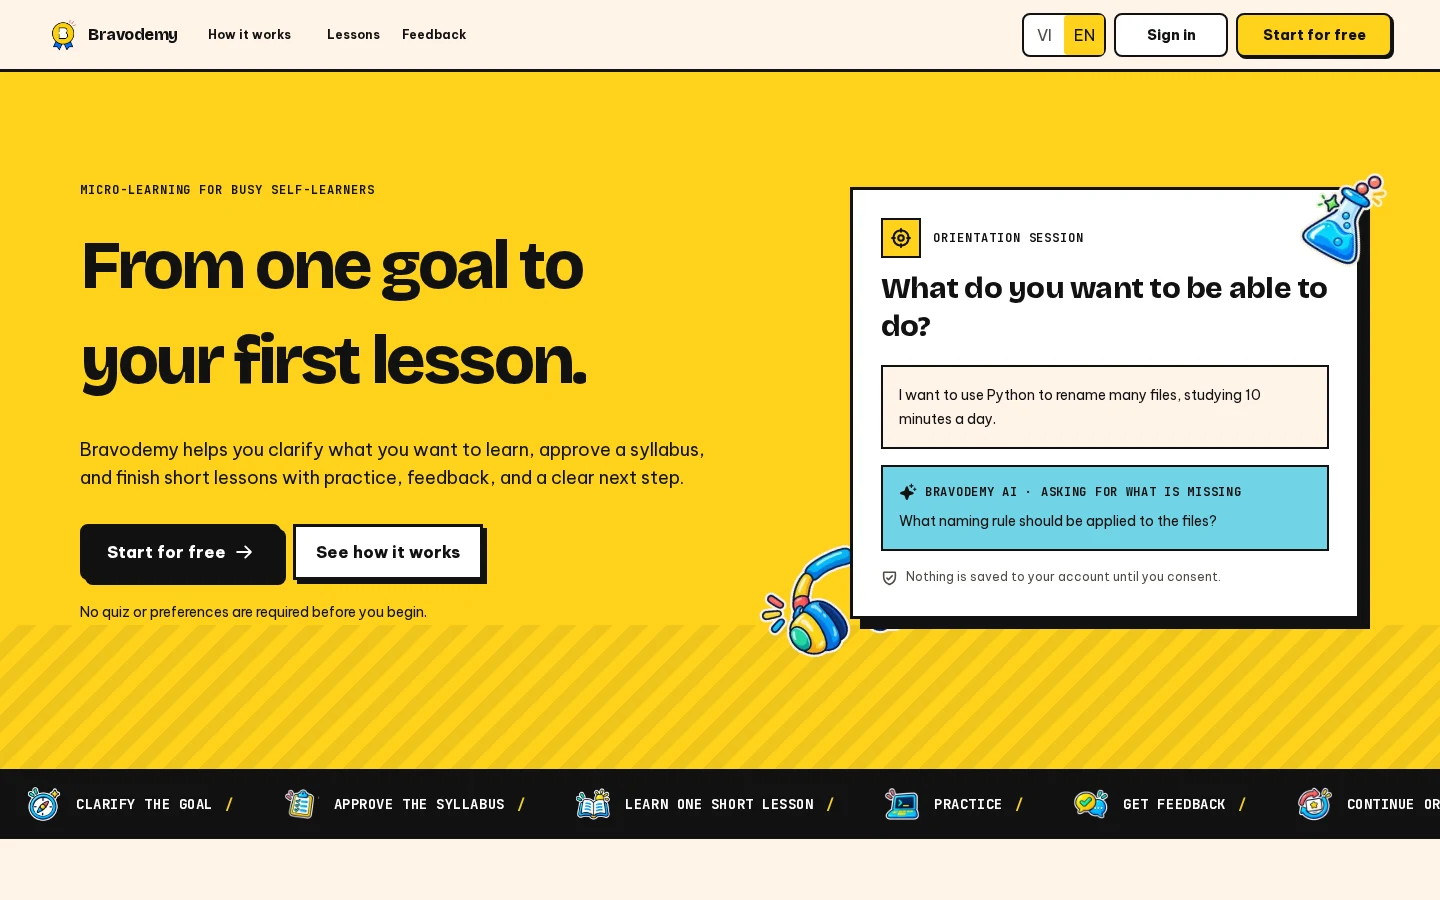
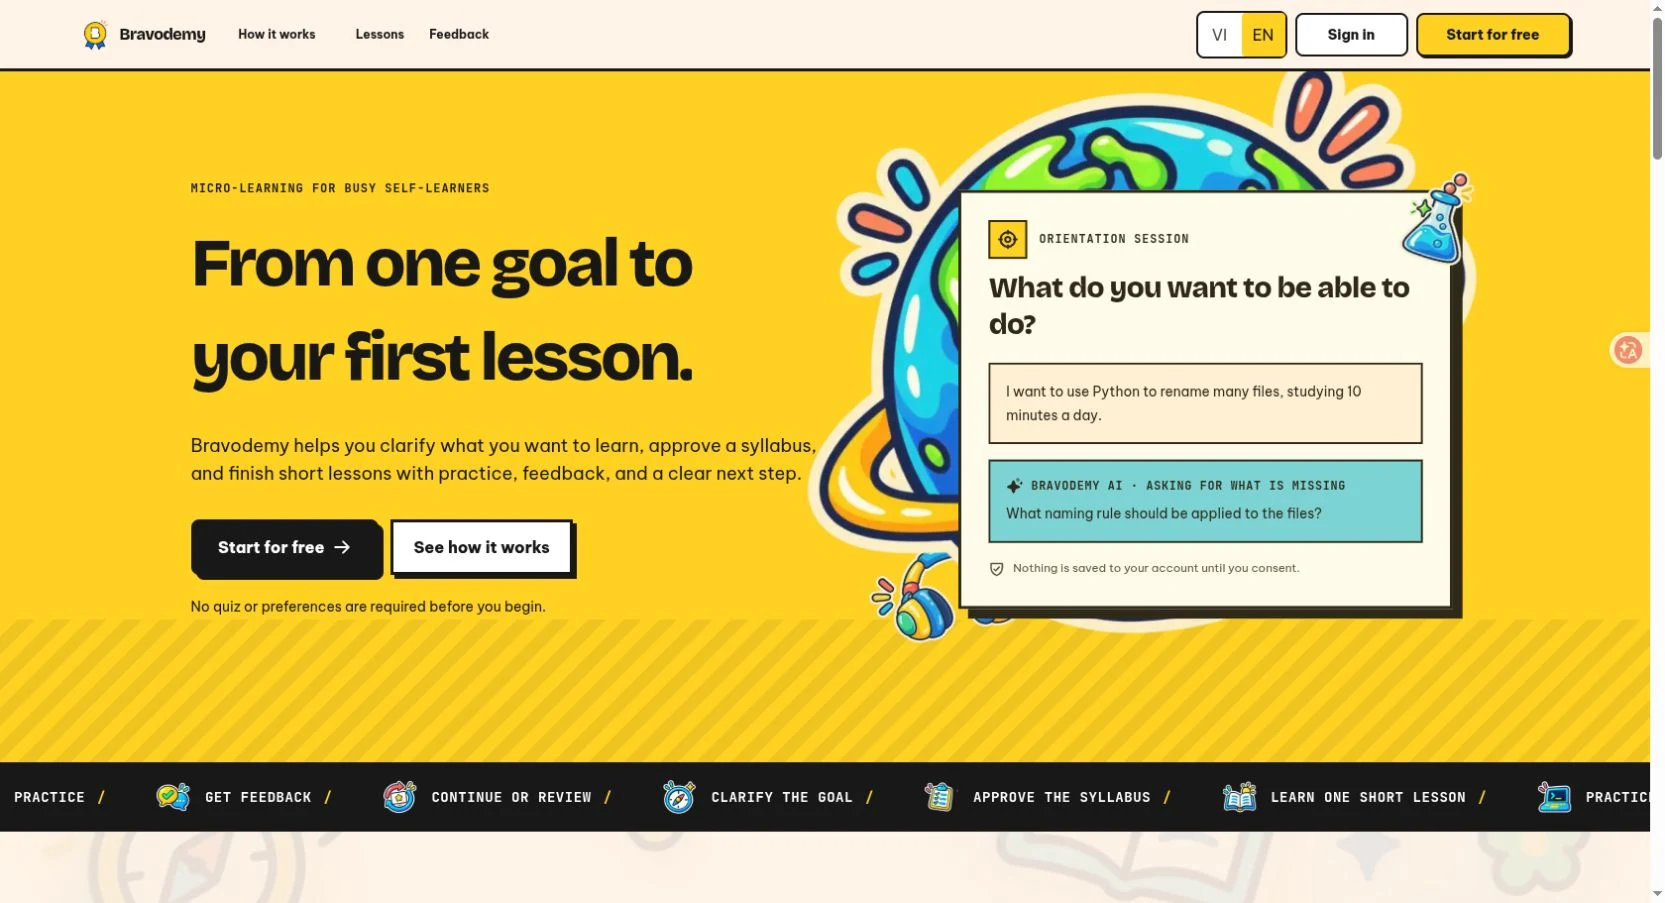
fix(portfolio): refresh complete Bravodemy homepage capture

Changed region(s): [[0.0, 0.0, 1.0, 0.9333], [0.0312, 0.2489, 0.4375, 0.4356], [0.0625, 0.1867, 0.3125, 0.2178]]

diff --git a/lib/projects.ts b/lib/projects.ts
@@ -66,7 +66,7 @@ export const projects: readonly Project[] = [
       "GitHub Actions CI with Pytest, Vitest, Playwright, accessibility, and responsive checks",
     ],
     gallery: [
-      { src: "/images/projects/bravodemy-main.webp", alt: "Bravodemy AI microlearning landing page", width: 1440, height: 900 },
+      { src: "/images/projects/bravodemy-main.webp", alt: "Bravodemy AI microlearning homepage with globe illustration and a guided lesson preview", width: 1665, height: 903 },
     ],
     accent: "blue",
     liveUrls: [{ label: "Bravodemy", href: "https://bravodemy.com" }],
